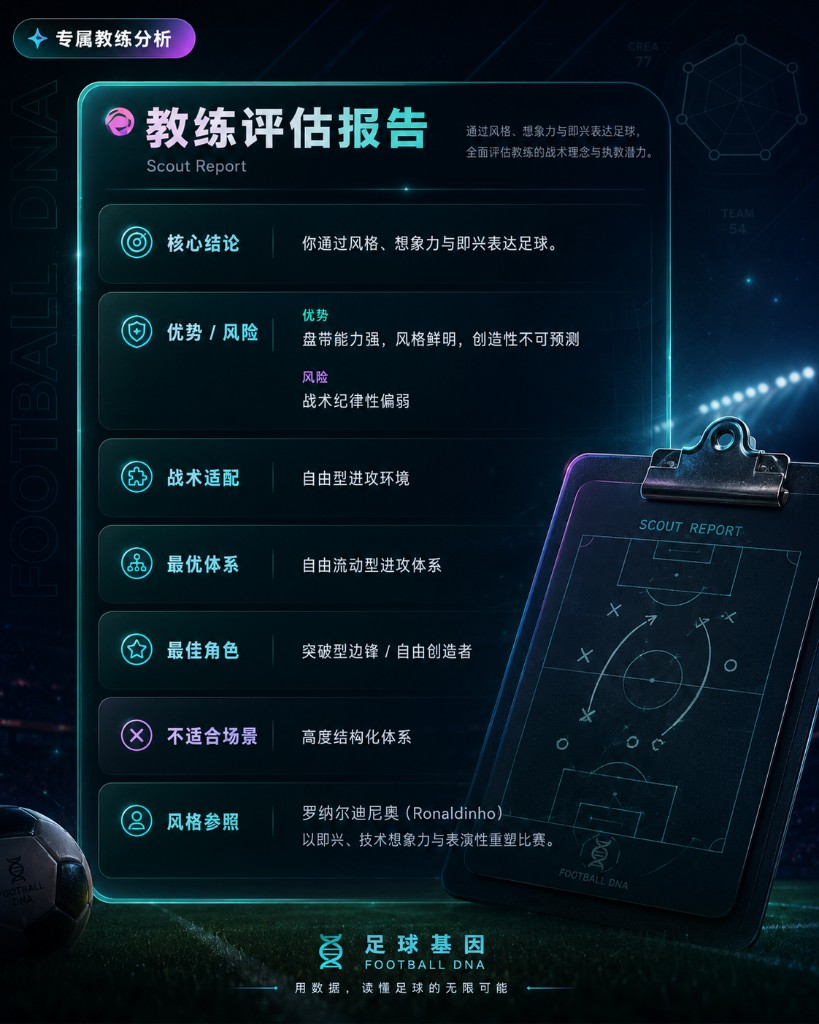
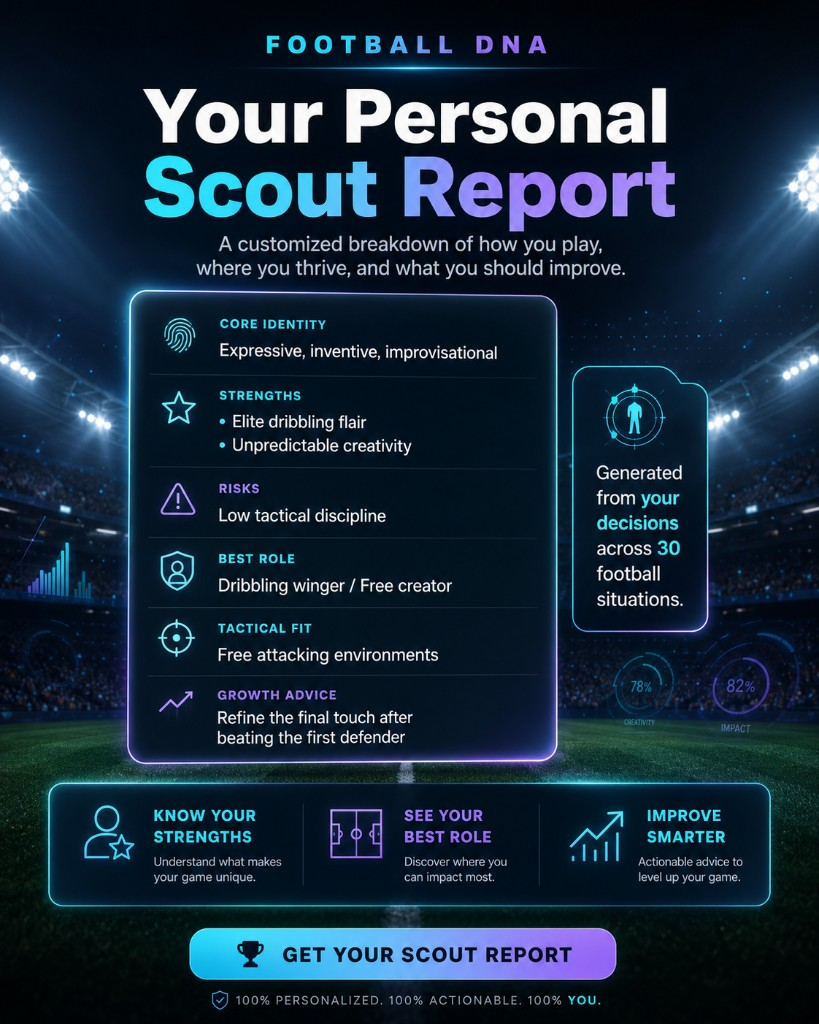
Update README file

diff --git a/README.md b/README.md
@@ -1,57 +1,57 @@
+<div align="center">
+
 # Football DNA
 
 **An MBTI-style football personality quiz — discover your on-pitch archetype in 30 match moments.**
 
-[Live (International)](https://soccer-mbti.kickquiz.workers.dev) · [Live (China)](http://football-mbti.cn) · English / 中文 · [MIT License](LICENSE)
+[🌐 Live (International)](https://soccer-mbti.kickquiz.workers.dev) · [🇨🇳 Live (China)](http://football-mbti.cn) · English / 中文 · [MIT License](LICENSE)
 
-<p align="center">
-  <img src="docs/screenshots/cover.png" alt="Football DNA — quiz flow, archetype result, scout report, and radar chart overview" width="820" />
-</p>
+<br />
+
+<img src="docs/screenshots/how-it-works.png" alt="Football Personality Test — match scenarios, archetype, scout report, and core profile" width="920" />
+
+<sub><b>30 moments</b> · <b>7 dimensions</b> · <b>10 archetypes</b> · <b>Scout report</b> · <b>World Cup storyline</b></sub>
+
+<br />
+
+[![License: MIT](https://img.shields.io/badge/License-MIT-cyan.svg)](LICENSE)
+[![React](https://img.shields.io/badge/React-18-61dafb.svg)](https://react.dev/)
+[![Vite](https://img.shields.io/badge/Vite-5-646cff.svg)](https://vitejs.dev/)
+[![Tailwind CSS](https://img.shields.io/badge/Tailwind-3-38bdf8.svg)](https://tailwindcss.com/)
+
+</div>
 
 ---
 
-## Overview
-
-Football DNA is a static, client-side web app that maps how you react on the pitch to one of **10 football archetypes**. Answer **30 scenario-based questions** (fast breaks, set pieces, World Cup knockouts, dressing-room moments, and more), then receive a rich result profile with scout report, attribute radar, shareable player card, and platform-specific share captions.
-
-All scoring runs in the browser — no backend is required to take the quiz.
+## Highlights
 
 | | |
-|---|---|
-| **Questions** | 30 (shuffled per session) |
-| **Archetypes** | 10 base types × 3 tiers (Prime / Core / Hybrid) |
-| **Dimensions** | Football IQ, Leadership, Creativity, Teamwork, Flair (+ Emotional Control & Courage for radar) |
-| **Languages** | English · 中文 |
-| **Stack** | React 18 · Vite 5 · Tailwind CSS · Framer Motion |
+|:--|:--|
+| ⚽ **30 scenario questions** | Fast breaks, set pieces, World Cup knockouts, dressing-room moments |
+| 🧬 **10 football archetypes** | Prime · Core · Hybrid tiers from your top dimensions |
+| 📊 **7-axis player profile** | Football IQ, Leadership, Creativity, Teamwork, Flair, Emotional Control, Courage |
+| 🌍 **Bilingual** | Full English / 中文 UI and question copy |
+| 🚀 **Static & fast** | Scoring runs in the browser — no server required to take the quiz |
+| 📤 **Built to share** | Player card PNG, WeChat / Xiaohongshu / Douyin / Dongqiudi captions |
 
 ---
 
-## Screenshots
+## Product tour
 
 <p align="center">
-  <img src="docs/screenshots/intro.png" alt="Intro — Discover Your Football Archetype" width="720" />
-  <br /><sub>Intro · 发现你的足球人格原型</sub>
+  <img src="docs/screenshots/overview.png" alt="From match decisions to your core profile — quiz scenario and seven dimensions" width="920" />
+  <br /><b>Match scenarios → personalized analysis</b><br /><sub>30 football situations · 7 core dimensions · radar profile</sub>
 </p>
 
-<table align="center">
+<table>
   <tr>
     <td align="center" width="50%">
-      <img src="docs/screenshots/quiz.png" alt="Quiz — World Cup scenario question 10 of 30" width="400" />
-      <br /><sub>Quiz · 30 个比赛瞬间</sub>
+      <img src="docs/screenshots/scout-report.png" alt="Your personal scout report — strengths, risks, best role, growth advice" width="440" />
+      <br /><b>Scout Report</b><br /><sub>Strengths · risks · tactical fit · growth advice</sub>
     </td>
     <td align="center" width="50%">
-      <img src="docs/screenshots/result.png" alt="Result — archetype, World Cup moment, best teammate, next upgrade" width="400" />
-      <br /><sub>Result · 原型与世界杯故事线</sub>
-    </td>
-  </tr>
-  <tr>
-    <td align="center" width="50%">
-      <img src="docs/screenshots/scout-report.png" alt="Scout report — tactical fit, strengths, and style reference" width="400" />
-      <br /><sub>Scout Report · 教练评估报告</sub>
-    </td>
-    <td align="center" width="50%">
-      <img src="docs/screenshots/player-card.png" alt="Player card — seven-axis radar and core attributes" width="400" />
-      <br /><sub>Player Build · 核心属性与雷达图</sub>
+      <img src="docs/screenshots/result-identity.png" alt="Personalized football identity — archetype, World Cup moment, teammate match" width="440" />
+      <br /><b>Football Identity</b><br /><sub>Archetype · World Cup storyline · best teammate · next upgrade</sub>
     </td>
   </tr>
 </table>
@@ -62,39 +62,31 @@ All scoring runs in the browser — no backend is required to take the quiz.
 
 | Region | URL | Hosting |
 |--------|-----|---------|
-| International | https://soccer-mbti.kickquiz.workers.dev | Cloudflare Workers |
-| China | http://football-mbti.cn | Aliyun OSS + custom domain |
+| 🌐 International | https://soccer-mbti.kickquiz.workers.dev | Cloudflare Workers |
+| 🇨🇳 China | http://football-mbti.cn | Aliyun OSS + custom domain |
 
-> **Note:** Aliyun OSS default bucket URLs force-download HTML. A **custom domain** bound to the bucket is required for browser access in China.
+> Aliyun OSS default bucket URLs force-download HTML. A **custom domain** bound to the bucket is required for browser access in China.
 
 ---
 
-## Features
+## How it works
 
-### Quiz experience
-- Immersive pitch-themed UI with progress tracking and prev/next navigation
-- Bilingual questions and UI (toggle anytime)
-- Question order randomized on each run
+```
+Intro → 30 questions (shuffled) → Score in browser → Result page
+                                              ↓
+                    Archetype · Scout report · Radar · Share card
+```
 
-### Scoring engine
-- **Pair-based lookup:** top two archetype dimensions → result tier from score gap
-- **Vector similarity:** normalized 7-axis profile compared to prototype vectors for refined classification
-- Automatic fallback if vector mapping is ambiguous
-
-### Result page
-- **Hero** — archetype name, MBTI-style code, inspired-by player
-- **World Cup extras** — signature moment, best teammate, next upgrade
-- **Scout report** — tactical role, strengths, growth areas
-- **Player build** — 7-axis radar chart and core attributes
-- **Completion stats** — global counter via Supabase (optional)
-- **Share** — copy captions for WeChat, Xiaohongshu, Douyin, Dongqiudi; download PNG player card
+1. **Answer** — pick the choice closest to your real instinct in each match moment  
+2. **Score** — pair-based lookup + 7-axis vector similarity vs. prototype profiles  
+3. **Reveal** — archetype tier, scout report, World Cup extras, downloadable player card  
 
 ---
 
 ## The 10 archetypes
 
-| Code | EN | 中文 |
-|------|----|------|
+| Code | English | 中文 |
+|------|---------|------|
 | FDNA-01 | The Defensive Commander | 防线指挥官 |
 | FDNA-02 | The Offensive Brain | 进攻大脑 |
 | FDNA-03 | The Deep Organizer | 后场组织者 |
@@ -106,17 +98,13 @@ All scoring runs in the browser — no backend is required to take the quiz.
 | FDNA-09 | The Dribbling Magician | 盘带魔术师 |
 | FDNA-10 | The Tempo Master | 节奏大师 |
 
-Each archetype can resolve as **Prime**, **Core**, or **Hybrid** depending on how clearly your top dimensions separate.
+Each archetype resolves as **Prime**, **Core**, or **Hybrid** depending on how clearly your top dimensions separate.
 
 ---
 
 ## Quick start
 
-### Prerequisites
-- **Node.js 20+**
-- **npm 9+**
-
-### Install & run locally
+**Prerequisites:** Node.js 20+ · npm 9+
 
 ```bash
 git clone https://github.com/Boyuedu/football-mbti-quiz.git
@@ -128,79 +116,62 @@ npm run dev
 
 Open http://localhost:5173
 
-### Build & preview production bundle
-
 ```bash
-npm run build
-npm run preview
+npm run build    # → dist/
+npm run preview  # preview production bundle
 ```
-
-Output is written to `dist/`.
 
 ---
 
-## Environment variables
+<details>
+<summary><b>Environment variables</b></summary>
 
 Copy `.env.example` to `.env` at the project root.
 
 | Variable | Required | Description |
 |----------|----------|-------------|
-| `VITE_SUPABASE_URL` | Optional | Supabase project URL (`https://xxx.supabase.co`) — **not** the `/rest/v1/` API URL |
-| `VITE_SUPABASE_ANON_KEY` | Optional | Supabase anon / publishable key; enables completion counter on result page |
+| `VITE_SUPABASE_URL` | Optional | Supabase project URL (`https://xxx.supabase.co`) — **not** `/rest/v1/` |
+| `VITE_SUPABASE_ANON_KEY` | Optional | Anon key; enables completion counter on result page |
 | `ALIYUN_OSS_REGION` | Deploy only | e.g. `oss-cn-hongkong` |
 | `ALIYUN_OSS_BUCKET` | Deploy only | OSS bucket name |
 | `ALIYUN_OSS_ACCESS_KEY_ID` | Deploy only | RAM access key |
 | `ALIYUN_OSS_ACCESS_KEY_SECRET` | Deploy only | RAM secret |
-| `ALIYUN_OSS_PREFIX` | Optional | Folder prefix inside bucket (empty = root) |
+| `ALIYUN_OSS_PREFIX` | Optional | Folder prefix inside bucket |
 
-Without Supabase vars, the quiz works fully; the completion counter is simply hidden.
+Without Supabase vars, the quiz works fully; the completion counter is hidden.
 
-### Supabase setup
+**Supabase setup:** run `supabase/migrations/20250611000000_quiz_counter.sql`, then add URL + anon key before `npm run build`.
 
-1. Create a Supabase project.
-2. Run the migration in `supabase/migrations/20250611000000_quiz_counter.sql` (SQL editor or CLI).
-3. Add `VITE_SUPABASE_URL` and `VITE_SUPABASE_ANON_KEY` to `.env` before `npm run build`.
+</details>
 
----
+<details>
+<summary><b>Deployment</b></summary>
 
-## Deployment
+One `dist/` build deploys to two regions.
 
-One build (`dist/`) is deployed to two regions for low latency worldwide.
-
-### International — Cloudflare Workers
+**International — Cloudflare Workers**
 
 ```bash
-npm run build
-npx wrangler login
-npm run deploy:cloudflare
+npm run build && npx wrangler login && npm run deploy:cloudflare
 ```
 
-Config: `wrangler.toml` (`soccer-mbti`, SPA fallback via `not_found_handling`).
+Config: `wrangler.toml` · Actions: `.github/workflows/deploy-cloudflare.yml` (manual trigger)
 
-GitHub Actions: `.github/workflows/deploy-cloudflare.yml` (manual `workflow_dispatch`).
+**China — Aliyun OSS**
 
-### China — Aliyun OSS
+1. Public-read bucket · static website (`index.html` + 404 → `index.html`, error code **200**)
+2. Fill Aliyun vars in `.env`
+3. `npm run deploy:china`
+4. Bind custom domain + CNAME
 
-1. Create a **public-read** bucket with static website hosting (`index.html` + 404 → `index.html`, error response **200** for SPA).
-2. Fill Aliyun vars in `.env`.
-3. Deploy:
+Actions: `.github/workflows/deploy-china.yml` (auto on push to `main` when secrets are set)
 
-```bash
-npm run deploy:china
-```
+Guides: [Dual-region deployment](docs/deployment-dual-static.md) · [Deploy with Git](docs/deploy-with-git.md) · [Scoring weights](docs/scoring-weights-reference.md)
 
-4. Bind a **custom domain** in OSS → 传输管理 → 域名管理, then add the CNAME at your DNS provider.
+</details>
 
-GitHub Actions: `.github/workflows/deploy-china.yml` (auto on push to `main` when secrets are set).
-
-Detailed guides:
-- [Dual-region deployment](docs/deployment-dual-static.md)
-- [Deploy with Git & GitHub Actions](docs/deploy-with-git.md)
-- [Scoring weights reference](docs/scoring-weights-reference.md)
-
----
-
-## Project structure
+<details>
+<summary><b>Project structure</b></summary>
 
 ```
 football-mbti-quiz/
@@ -221,17 +192,16 @@ football-mbti-quiz/
 │       ├── share/           # Platform share formats & card export
 │       ├── quiz/            # Question ordering, completion counter
 │       └── supabase/        # Supabase client
-├── scripts/
-│   ├── deploy-aliyun-oss.mjs
-│   └── export-weights.mjs
+├── scripts/                 # OSS deploy, weight export
 ├── supabase/migrations/     # Completion counter SQL
 ├── docs/                    # Deployment & scoring docs
 └── .github/workflows/       # CI deploy workflows
 ```
 
----
+</details>
 
-## Scripts
+<details>
+<summary><b>Scripts &amp; tech stack</b></summary>
 
 | Command | Description |
 |---------|-------------|
@@ -240,20 +210,17 @@ football-mbti-quiz/
 | `npm run preview` | Preview `dist/` locally |
 | `npm run deploy:cloudflare` | Build + deploy to Cloudflare Workers |
 | `npm run deploy:china` | Build + upload to Aliyun OSS |
-| `npm run export:weights` | Export scoring weight matrix (maintainers) |
-
----
-
-## Tech stack
+| `npm run export:weights` | Export scoring weight matrix |
 
 | Layer | Choice |
 |-------|--------|
 | UI | React 18, Tailwind CSS 3, Framer Motion |
 | Build | Vite 5 |
 | Analytics counter | Supabase (PostgreSQL + RPC) |
-| International CDN | Cloudflare Workers (static assets) |
+| International CDN | Cloudflare Workers |
 | China CDN | Aliyun OSS + custom domain |
-| Optional API | `server/rating-api-example.js` (Express + SQLite demo) |
+
+</details>
 
 ---
 
@@ -261,40 +228,36 @@ football-mbti-quiz/
 
 Contributions are welcome under the [MIT License](LICENSE).
 
-- **Bug reports & ideas** — open a [GitHub issue](https://github.com/Boyuedu/football-mbti-quiz/issues)
-- **Pull requests** — fork, branch, and PR; keep changes focused
-- **Questions & translations** — issues are fine for discussion before large edits
+- **Bug reports & ideas** — [GitHub Issues](https://github.com/Boyuedu/football-mbti-quiz/issues)
+- **Pull requests** — fork, branch, PR; keep changes focused
 
 ---
 
 ## 中文简介
 
-**Football DNA（足球 DNA）** 是一款 MBTI 风格的足球人格测试：30 道真实比赛情境题，测出你的 **10 大球员原型** 之一，并生成教练报告、七维雷达图、可下载球员卡和多平台分享文案。
+**Football DNA（足球 DNA）** 是一款 MBTI 风格的足球人格测试：30 道比赛情境题，测出 **10 大球员原型**，并生成教练报告、七维雷达图、可下载球员卡和多平台分享文案。
 
 | 链接 | 说明 |
 |------|------|
 | [海外版](https://soccer-mbti.kickquiz.workers.dev) | Cloudflare 全球加速 |
 | [国内版](http://football-mbti.cn) | 阿里云 OSS + 自定义域名 |
 
-本地开发：`npm ci && npm run dev`  
-国内部署详见 [docs/deployment-dual-static.md](docs/deployment-dual-static.md)
+`npm ci && npm run dev` · 部署见 [docs/deployment-dual-static.md](docs/deployment-dual-static.md)
 
 ---
 
 ## License
 
-This project is licensed under the **MIT License** — see [LICENSE](LICENSE).
-
-You may use, modify, and distribute the code with attribution. Quiz copy, archetype content, and branding remain part of the project; derivative works should retain the copyright notice.
+MIT — see [LICENSE](LICENSE). Quiz copy and archetype content are part of the project; derivative works should retain the copyright notice.
 
 ---
 
-## Acknowledgements
+<div align="center">
 
-Inspired by football culture and MBTI-style personality frameworks. Player references and archetype copy are for entertainment and self-reflection — not clinical or professional assessment.
+Inspired by football culture and MBTI-style personality frameworks — for entertainment and self-reflection, not clinical assessment.
 
----
+<br />
 
-<p align="center">
-  <sub>Built with ⚽ for the World Cup season</sub>
-</p>
+<sub>Built with ⚽ for the World Cup season</sub>
+
+</div>